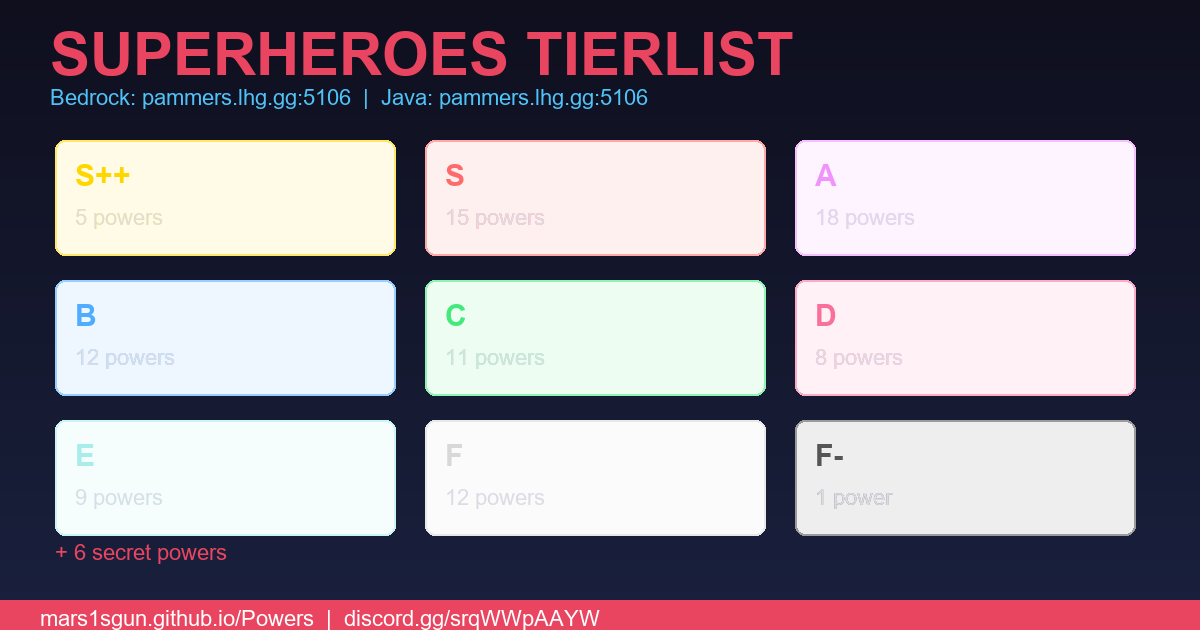
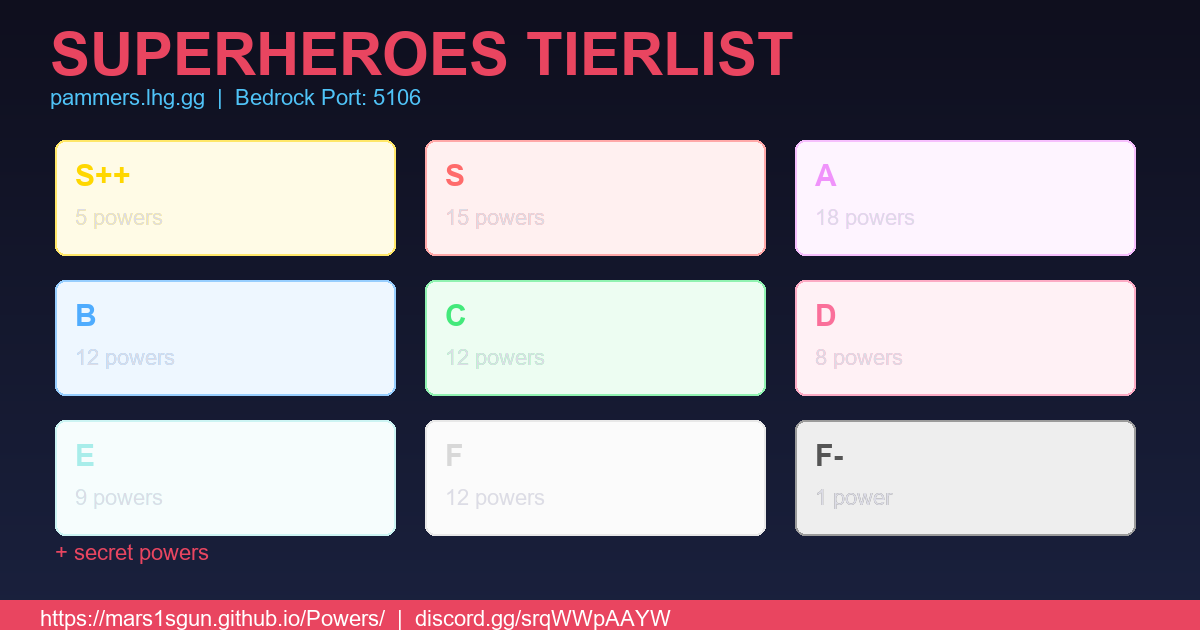
Add DamageDelay to C tier

Changed region(s): [[0.0308, 0.1206, 0.555, 0.181], [0.0308, 0.9651, 0.555, 1.0], [0.0617, 0.8444, 0.185, 0.9048]]

diff --git a/index.html b/index.html
@@ -77,7 +77,7 @@ footer a{color:#b388ff;text-decoration:underline}
 <header>
 <h1>SUPERHEROES TIERLIST</h1>
 <p>All powers ranked — click a tier to expand/collapse</p>
-<p style="margin-top:.5rem;font-size:.9rem;color:#4fc3f7">Bedrock: <b>138.201.255.236</b> port <b>5183</b> &nbsp;|&nbsp; Java: <b>pammers.lhg.gg:5106</b></p>
+<p style="margin-top:.5rem;font-size:.9rem;color:#4fc3f7">Bedrock: <b>pammers.lhg.gg</b> port <b>5106</b> &nbsp;|&nbsp; Java: <b>pammers.lhg.gg:5106</b></p>
 </header>
 <div class="container" id="app"></div>
 <footer>Built by 1sGun &middot; join the discord <a href="https://discord.gg/srqWWpAAYW" target="_blank">https://discord.gg/srqWWpAAYW</a></footer>
@@ -88,8 +88,8 @@ const TIERS = [
     { name: "Tank", desc: "Reinforce yourself and repair all your gear.", howto: "Sneak (120s cd)", effects: "Resistance III, Absorption III, full repair", obtain: "Craft S++ PowerShard (8 amethyst + Deepslate Emerald Ore) & right-click to reroll.", chance: "36.4%" },
     { name: "Timeweaver", desc: "Stop time and teleport through space.", howto: "Left-click (5s cd) / Sneak (60s cd)", effects: "Teleport 30 blocks, Time Stop 15s", obtain: "Craft S++ PowerShard (8 amethyst + Deepslate Emerald Ore) & right-click to reroll.", chance: "9.1%" },
     { name: "Swiper", desc: "Shift-click a player to steal their power for 60s! S++ tier.", howto: "Sneak + right-click target player (180s cd, 120s with TempU)", effects: "Steal target's hero (60s), target becomes Powerless. Reverts after expiry.", obtain: "Craft S++ PowerShard (8 amethyst + Deepslate Emerald Ore) & right-click to reroll.", chance: "9.1%" },
-    { name: "Ichigo", desc: "You are Ichigo Kurosaki, a Soul Reaper from Karakura Town!", howto: "Zangetsu Stick: RC=slash, Sneak+RC=Getsuga Tensho. Hollowfication: RC toggle (hunger drain). Bankai: RC activate. Cero, Horn, True Bankai, FGT forms.", effects: "Zangetsu melee (8 dmg), Getsuga Tensho (10 dmg), Hollowfication (Speed+Strength), Bankai, Horn (Str V+Res IV), True Bankai, FGT (half HP). TempU: halved hunger, extended forms.", obtain: "Craft S++ PowerShard (8 amethyst + Deepslate Emerald Ore) & right-click to reroll.", chance: "18.2%" },
     { name: "Airbender", desc: "Master of the skies! Infinite double jump, no fall damage, wind powers.", howto: "Infinite double jump (space mid-air), no fall damage. Sprint for wind boost. Right-click Stick: Air Blast (1s) / Tornado (20s) / Wind Shield (15s). TempU: +Airburst stick, halved cooldowns, bigger/longer tornado", effects: "N/A", obtain: "Craft S++ PowerShard (8 amethyst + Deepslate Emerald Ore) & right-click to reroll.", chance: "27.3%" },
+    { name: "Ichigo", desc: "You are Ichigo Kurosaki, a Soul Reaper from Karakura Town!", howto: "Zangetsu Stick: RC=slash, Sneak+RC=Getsuga Tensho. Hollowfication Stick: RC=toggle (hunger drain). Bankai Stick: RC=activate. RC Cero while Hollow. Horn of Salvation, True Bankai, Final Getsuga Tensho. All forms have hunger drain & timed duration.", effects: "Zangetsu melee (8 dmg), Getsuga Tensho projectile (10 dmg), Hollowfication (Speed+Strength), Bankai (more dmg+speed), Horn (Strength V+Resistance IV), True Bankai (double reach), FGT (half enemy HP). TempU: halved hunger drain, extended forms.", obtain: "Craft S++ PowerShard (8 amethyst + Deepslate Emerald Ore) & right-click to reroll.", chance: "18.2%" },
   ]},
   { id: "s", label: "S", item: "NETHER_STAR", heroes: [
     { name: "Homelander", desc: "Fly through the skies and blast foes with laser vision and fireballs!", howto: "Jetpack (hold jump) + Right-click Redstone Block", effects: "Flight, Speed II, Strength II, Resistance II, Laser (6 dmg), Fireballs, X-ray", obtain: "Craft Legendary PowerShard (8 amethyst + Nether Star) & right-click to reroll.", chance: "3.6%" },
@@ -125,8 +125,8 @@ const TIERS = [
     { name: "Flashbang", desc: "Blind nearby players.", howto: "Sneak (60s cd)", effects: "AoE Blindness (20 blocks)", obtain: "Craft A PowerShard (8 amethyst + Diamond Block) & right-click to reroll.", chance: "10.0%" },
     { name: "Benson", desc: "Fly like Tinkerbell! Disabled for 5s on hit or when you hit someone.", howto: "Passive", effects: "Flight, disabled by Slowness II + Weakness V + Blindness for 5s on PvP.", obtain: "Craft A PowerShard (8 amethyst + Diamond Block) & right-click to reroll.", chance: "5.3%" },
     { name: "TheCrippler", desc: "Sneak to disable all powers within 15 blocks for 60s! A tier.", howto: "Sneak to trigger (180s cd, 120s with TempU)", effects: "AoE 15 blocks: all players set to Powerless (60s). Reverts after expiry.", obtain: "Craft A PowerShard (8 amethyst + Diamond Block) & right-click to reroll.", chance: "5.3%" },
-    { name: "TheCombo", desc: "Hit AND get hit to stack both atk and def - 1s window!", howto: "Passive - hitting AND getting hit builds combo for both +atk and -def", effects: "+atk per hit, -def per hit taken (1s window). TempU: 0.5s, 2x multiplier.", obtain: "Craft A PowerShard (8 amethyst + Diamond Block) & right-click to reroll.", chance: "5.3%" },
-    { name: "Sacrifice", desc: "Kill to heal - convert items into totems!", howto: "Passive - kills heal below 20 HP. Sneak with item to sacrifice for totem (60s cd, 30s TempU).", effects: "Kill heal below 20 HP. Sneak with item = 1 totem (60s cd, 30s TempU).", obtain: "Craft A PowerShard (8 amethyst + Diamond Block) & right-click to reroll.", chance: "5.3%" },
+    { name: "TheCombo", desc: "Hit AND get hit to stack +atk and -def — 1s window!", howto: "Passive — hitting and getting hit builds combo", effects: "+10% atk per hit, -10% def per hit taken (1s window). TempU: 0.5s window, 2x multiplier.", obtain: "Craft A PowerShard (8 amethyst + Diamond Block) & right-click to reroll.", chance: "5.3%" },
+    { name: "Sacrifice", desc: "Kill to heal — and convert items into totems!", howto: "Passive — kills heal below 20 HP. Sneak with item: sacrifice 1 for 1 totem (60s cd, 30s TempU).", effects: "Kill heal, item-to-totem conversion. TempU: halved cooldown.", obtain: "Craft A PowerShard (8 amethyst + Diamond Block) & right-click to reroll.", chance: "5.3%" },
   ]},
   { id: "b", label: "B", item: "GOLD_BLOCK", heroes: [
     { name: "SizeShift", desc: "Shrink or grow at will!", howto: "Right-click Amethyst Shard to shrink — Right-click Emerald to grow (30s duration)", effects: "Shrink: 0.25x scale, fast speed/attacks. Grow: 1.5x scale, +6 dmg, slow speed/attacks", obtain: "Craft B PowerShard (8 amethyst + Gold Block) & right-click to reroll.", chance: "8.5%" },
@@ -139,8 +139,8 @@ const TIERS = [
     { name: "GravitySucker", desc: "Control gravity.", howto: "Passive sneaking", effects: "Levitation, Slow falling, Repulse", obtain: "Craft B PowerShard (8 amethyst + Gold Block) & right-click to reroll.", chance: "8.5%" },
     { name: "Sucker", desc: "You suck everything.", howto: "Sneak", effects: "Attract (-0.8x, 3.4 radius)", obtain: "Craft B PowerShard (8 amethyst + Gold Block) & right-click to reroll.", chance: "16.0%" },
     { name: "Bubble", desc: "You have a bubble.", howto: "Sneak", effects: "Repulse (2x, 3.4 radius)", obtain: "Craft B PowerShard (8 amethyst + Gold Block) & right-click to reroll.", chance: "16.0%" },
-    { name: "ComboDefence", desc: "Get hit rapidly to stack endurance - 1s combo window!", howto: "Passive - get hit within 1s to stack Resistance + Absorption", effects: "Resistance + Absorption per hit (1s window). TempU: 0.5s window, 2x amp per stack.", obtain: "Craft B PowerShard (8 amethyst + Gold Block) & right-click to reroll.", chance: "8.5%" },
-    { name: "ComboOffence", desc: "Hit rapidly to stack strength - 1s combo window!", howto: "Passive - hit targets within 1s to stack Strength", effects: "Strength per hit (1s window). TempU: 0.5s window, 2x amp per stack.", obtain: "Craft B PowerShard (8 amethyst + Gold Block) & right-click to reroll.", chance: "8.5%" },
+    { name: "ComboDefence", desc: "Get hit rapidly to stack endurance + exponential window!", howto: "Passive — getting hit within 1s builds combo", effects: "-10% damage reduction per hit (1s window). TempU: 0.5s window, 2x multiplier. Window shrinks exponentially past 10.", obtain: "Craft B PowerShard (8 amethyst + Gold Block) & right-click to reroll.", chance: "8.5%" },
+    { name: "ComboOffence", desc: "Hit rapidly to stack strength + exponential window!", howto: "Passive — hitting within 1s builds combo", effects: "+10% damage per hit (1s window). TempU: 0.5s window, 2x multiplier. Window shrinks exponentially past 10.", obtain: "Craft B PowerShard (8 amethyst + Gold Block) & right-click to reroll.", chance: "8.5%" },
   ]},
   { id: "c", label: "C", item: "BOOKSHELF", heroes: [
     { name: "Frozone", desc: "Walk on water, slow others.", howto: "Passive", effects: "Water walk, Slowness aura", obtain: "Craft C PowerShard (8 amethyst + Bookshelf) & right-click to reroll.", chance: "4.3%" },
@@ -152,8 +152,9 @@ const TIERS = [
     { name: "DrCloak", desc: "Not attacked while disguised.", howto: "Sneak (30s cd)", effects: "10s invisibility, mobs lose target", obtain: "Craft C PowerShard (8 amethyst + Bookshelf) & right-click to reroll.", chance: "8.5%" },
     { name: "GravityGuy", desc: "Sneak to rise, let go to fall.", howto: "Sneak to rise", effects: "Levitation II, Slow falling", obtain: "Craft C PowerShard (8 amethyst + Bookshelf) & right-click to reroll.", chance: "16.0%" },
     { name: "Aerosurfer", desc: "Create platforms.", howto: "Sneak to create platforms", effects: "Glass platforms, Speed II", obtain: "Craft C PowerShard (8 amethyst + Bookshelf) & right-click to reroll.", chance: "16.0%" },
-    { name: "Coinflip", desc: "Sneak every 30s for 3 random effects - all good or all bad!", howto: "Sneak to flip (30s cd) - 3 random effects for 15s", effects: "3 random potion effects (15s, lvl 1). TempU: lvl 2.", obtain: "Craft C PowerShard (8 amethyst + Bookshelf) & right-click to reroll.", chance: "8.5%" },
-    { name: "Rabbit", desc: "Speed II + Jump II + no fall damage - auto-burrow on landing! TempU: Super Jump (sneak).", howto: "Passive: Speed II + Jump II + no fall damage. Landing = AoE stomp + auto-burrow. Sneak to unburrow early. TempU: Super Jump (sneak 10s cd).", effects: "Speed II, Jump II, no fall damage. Stomp + auto-burrow on landing. Sneak to unburrow early. TempU: 1.5x + Super Jump (sneak 10s cd).", obtain: "Craft C PowerShard (8 amethyst + Bookshelf) & right-click to reroll.", chance: "8.5%" },
+    { name: "Coinflip", desc: "Sneak every 30s for 3 random effects — all good or all bad!", howto: "Sneak to flip (30s cd)", effects: "3 good OR 3 bad potion effects (15s, lvl 1). TempU: lvl 2.", obtain: "Craft C PowerShard (8 amethyst + Bookshelf) & right-click to reroll.", chance: "8.5%" },
+    { name: "Rabbit", desc: "Speed, jump, stomp, and burrow!", howto: "Passive: Speed II + Jump II + no fall damage. Landing = AoE stomp + auto-burrow (invis+invuln). Sneak while burrowed to surface early. TempU: sneak for Super Jump XX (20s, 10s cd).", effects: "Speed II, Jump II, no fall damage. Stomp 0.3 dmg/block. Burrow 1.5 ticks/block. Sneak to unburrow early. TempU: 1.5x + Super Jump (sneak, 10s cd).", obtain: "Craft C PowerShard (8 amethyst + Bookshelf) & right-click to reroll.", chance: "8.5%" },
+    { name: "DamageDelay", desc: "Store incoming damage, then release it as an explosive AoE!", howto: "Right-click Damage Store stick to toggle storage ON (absorbs all damage). Right-click again to release AoE (damages enemies + self for 30%).", effects: "Storage: all damage absorbed. Release: AoE explosion from stored damage, 30% self-damage. TempU: 1.5x radius.", obtain: "Craft C PowerShard (8 amethyst + Bookshelf) & right-click to reroll.", chance: "8.5%" },
   ]},
   { id: "d", label: "D", item: "BONE_BLOCK", heroes: [
     { name: "Floral", desc: "Create and consume flowers.", howto: "Look at ground / Right-click", effects: "11 flower types with buffs", obtain: "Craft D PowerShard (8 amethyst + Bone Block) & right-click to reroll.", chance: "7.1%" },
@@ -161,7 +162,6 @@ const TIERS = [
     { name: "LavaWalker", desc: "Walk on lava.", howto: "Passive", effects: "Lava walk, fire heals, fire immunity", obtain: "Craft D PowerShard (8 amethyst + Bone Block) & right-click to reroll.", chance: "7.1%" },
     { name: "Pyromaniac", desc: "Create fire trails.", howto: "Walk", effects: "Fire trail, fire/lava immunity", obtain: "Craft D PowerShard (8 amethyst + Bone Block) & right-click to reroll.", chance: "7.1%" },
     { name: "Chicken", desc: "You\'re a chicken.", howto: "Passive", effects: "Lay eggs, Speed III, Slow falling", obtain: "Craft D PowerShard (8 amethyst + Bone Block) & right-click to reroll.", chance: "22.3%" },
-    { name: "Pig", desc: "You\'re a pig", howto: "N/A", effects: "N/A", obtain: "", chance: "22.3%" },
     { name: "Dolphin", desc: "Swim at great speeds!", howto: "Passive / Eat Ink Sac", effects: "Dolphins Grace V, Water breathing", obtain: "Craft D PowerShard (8 amethyst + Bone Block) & right-click to reroll.", chance: "13.4%" },
     { name: "Tinkerbell", desc: "You are Tinkerbell!", howto: "Passive", effects: "Flight, Tiny (0.25x)", obtain: "Craft D PowerShard (8 amethyst + Bone Block) & right-click to reroll.", chance: "13.4%" },
   ]},
@@ -179,7 +179,6 @@ const TIERS = [
   { id: "f", label: "F", item: "ZOMBIE_HEAD", heroes: [
     { name: "Creeper", desc: "You\'re a creeper.", howto: "Right-click to explode", effects: "Explosion (power 1), Remote detonation", obtain: "Craft F PowerShard (8 amethyst + Zombie Head) & right-click to reroll.", chance: "4.3%" },
     { name: "Enderman", desc: "Teleport by punching.", howto: "Left-click (10s cd)", effects: "Teleport 30 blocks, OHKO Endermen", obtain: "Craft F PowerShard (8 amethyst + Zombie Head) & right-click to reroll.", chance: "8.7%" },
-    { name: "SkeletonKing", desc: "You lead an army of skeletons!", howto: "N/A", effects: "N/A", obtain: "", chance: "4.3%" },
     { name: "Zombie", desc: "You are a zombie!", howto: "Passive", effects: "Resistance II, knockback, burns in sun", obtain: "Craft F PowerShard (8 amethyst + Zombie Head) & right-click to reroll.", chance: "8.7%" },
     { name: "Dragon", desc: "Throw fireballs.", howto: "Right-click (30s cd)", effects: "Dragon fireballs", obtain: "Craft F PowerShard (8 amethyst + Zombie Head) & right-click to reroll.", chance: "4.3%" },
     { name: "Dragon2", desc: "Suck and blow everyone!", howto: "Right-click (2s cd)", effects: "Levitation X, Repulse, Wind Charges", obtain: "Craft F PowerShard (8 amethyst + Zombie Head) & right-click to reroll.", chance: "4.3%" },
